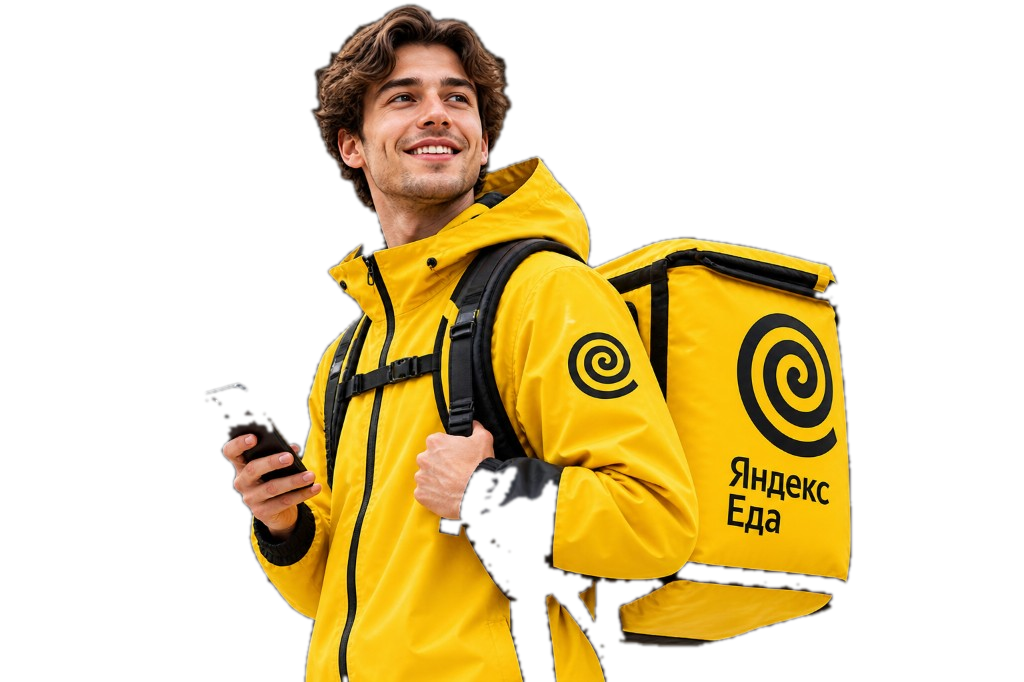
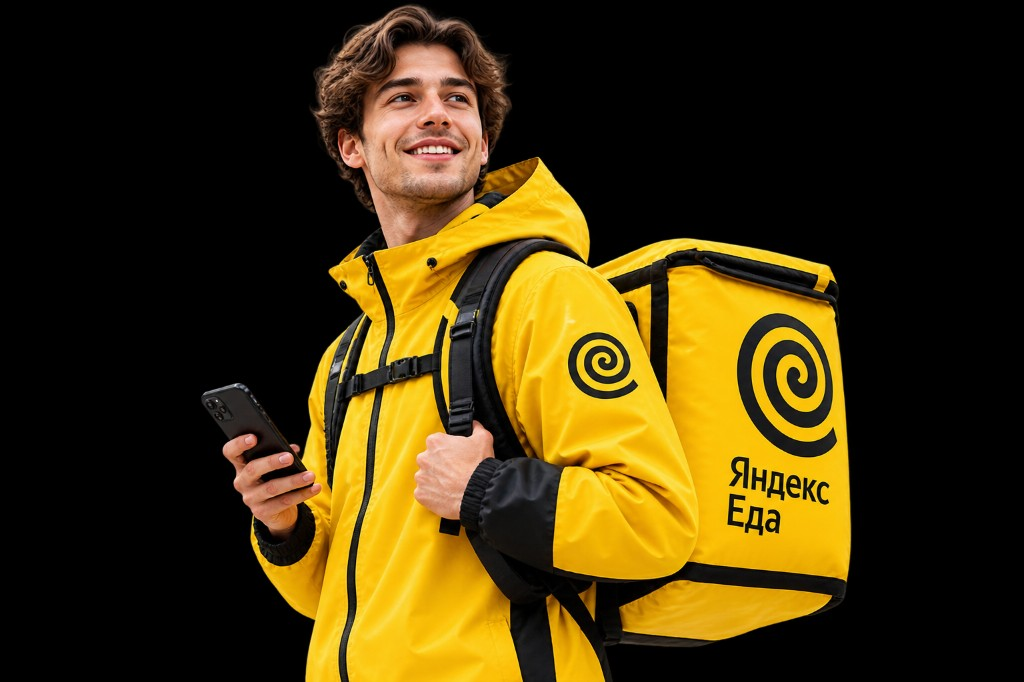
Use hero courier photo as-is and remove framed art chrome.

diff --git a/app/assets/stylesheets/application.css b/app/assets/stylesheets/application.css
@@ -188,37 +188,18 @@ button, input, select, textarea { font: inherit; }
   font-weight: 700;
 }
 .hero-art {
-  position: relative;
+  display: flex;
+  align-items: center;
+  justify-content: center;
   min-height: 540px;
-  border-radius: 28px;
-  overflow: hidden;
-  background: #0d0d0d;
+  background: #000;
   animation: art-in 0.9s ease both;
 }
-.hero-city {
-  position: absolute;
-  inset: 0;
-  width: 100%;
-  height: 100%;
-  object-fit: cover;
-}
-.hero-art::after {
-  content: "";
-  position: absolute;
-  inset: 0;
-  background: linear-gradient(105deg, rgba(255,255,255,0.12), transparent 42%, rgba(0,0,0,0.2));
-  z-index: 1;
-}
 .hero-courier {
-  position: absolute;
-  right: -3%;
-  bottom: -5%;
-  height: 106%;
-  width: auto;
-  max-width: none;
-  z-index: 2;
+  width: 100%;
+  height: auto;
+  max-height: 580px;
   object-fit: contain;
-  filter: drop-shadow(0 20px 35px rgba(0,0,0,0.4));
 }
 
 .section { padding: 5rem 0; }
@@ -673,8 +654,8 @@ input, select, textarea {
   .stats,
   .admin-shell { grid-template-columns: 1fr; }
   .hero-shell { min-height: 0; }
-  .hero-art { min-height: 360px; order: -1; }
-  .hero-courier { right: -10%; height: 110%; }
+  .hero-art { min-height: 0; order: -1; }
+  .hero-courier { max-height: none; }
   .section-head-row { align-items: start; flex-direction: column; }
   .calc-panel,
   .final-cta { padding: 1.4rem; }
